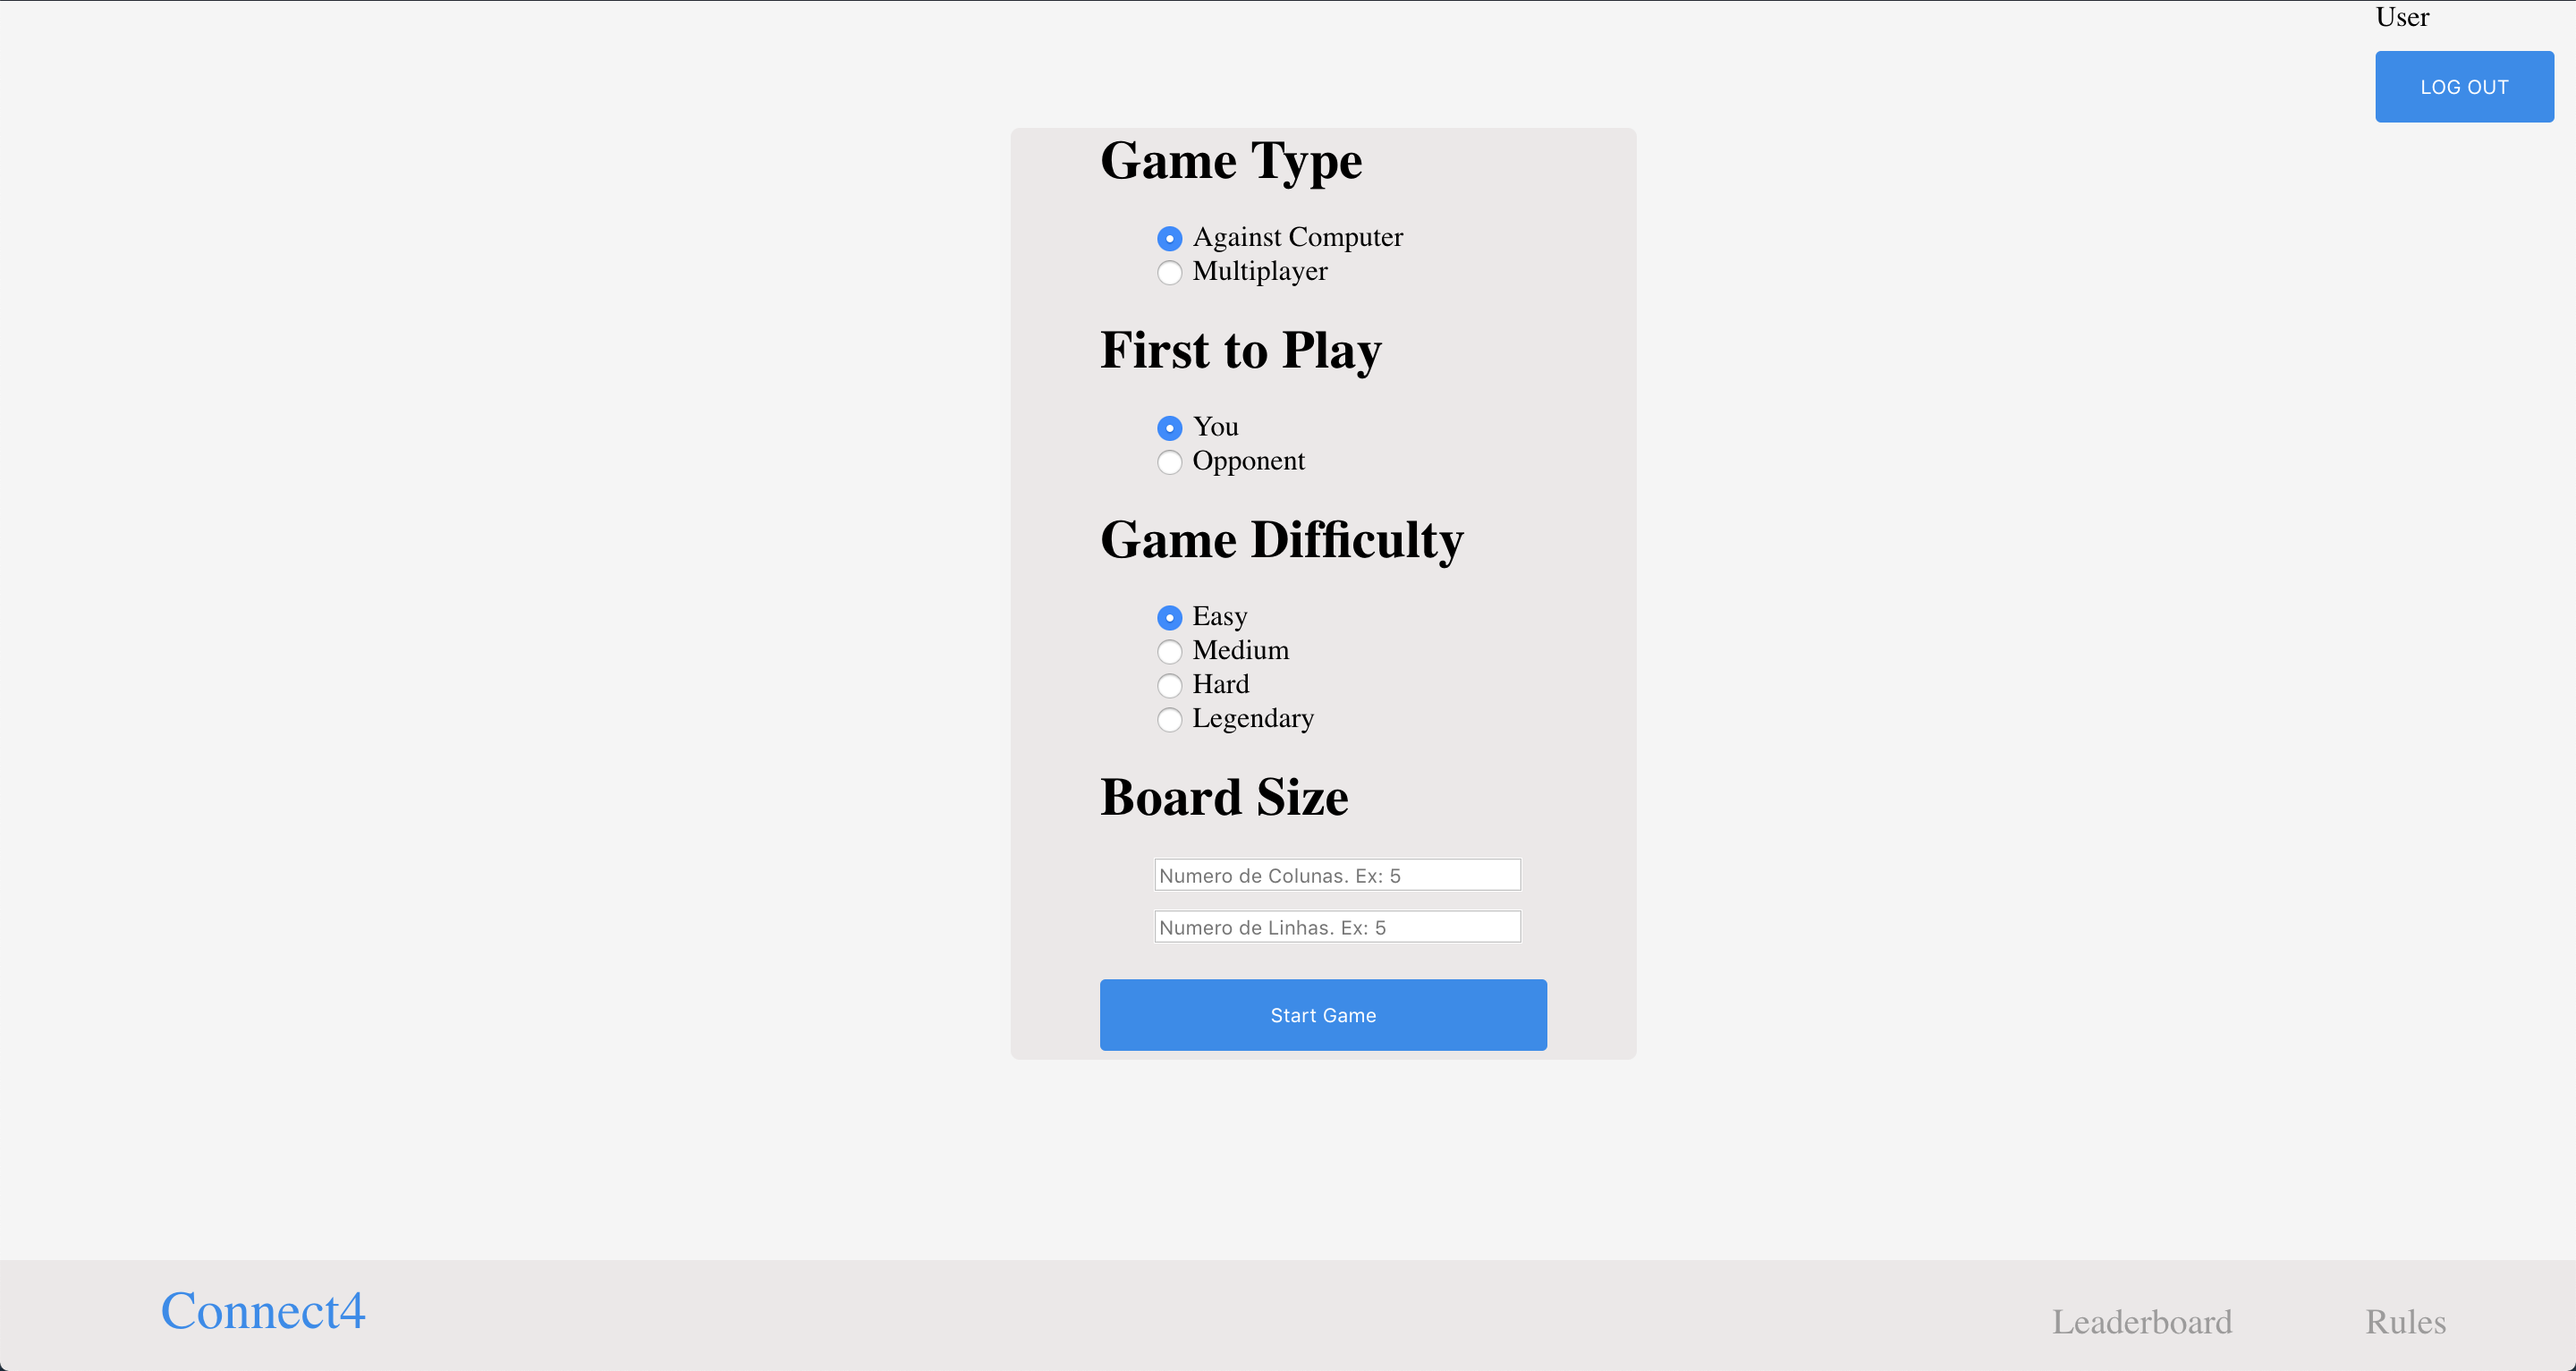
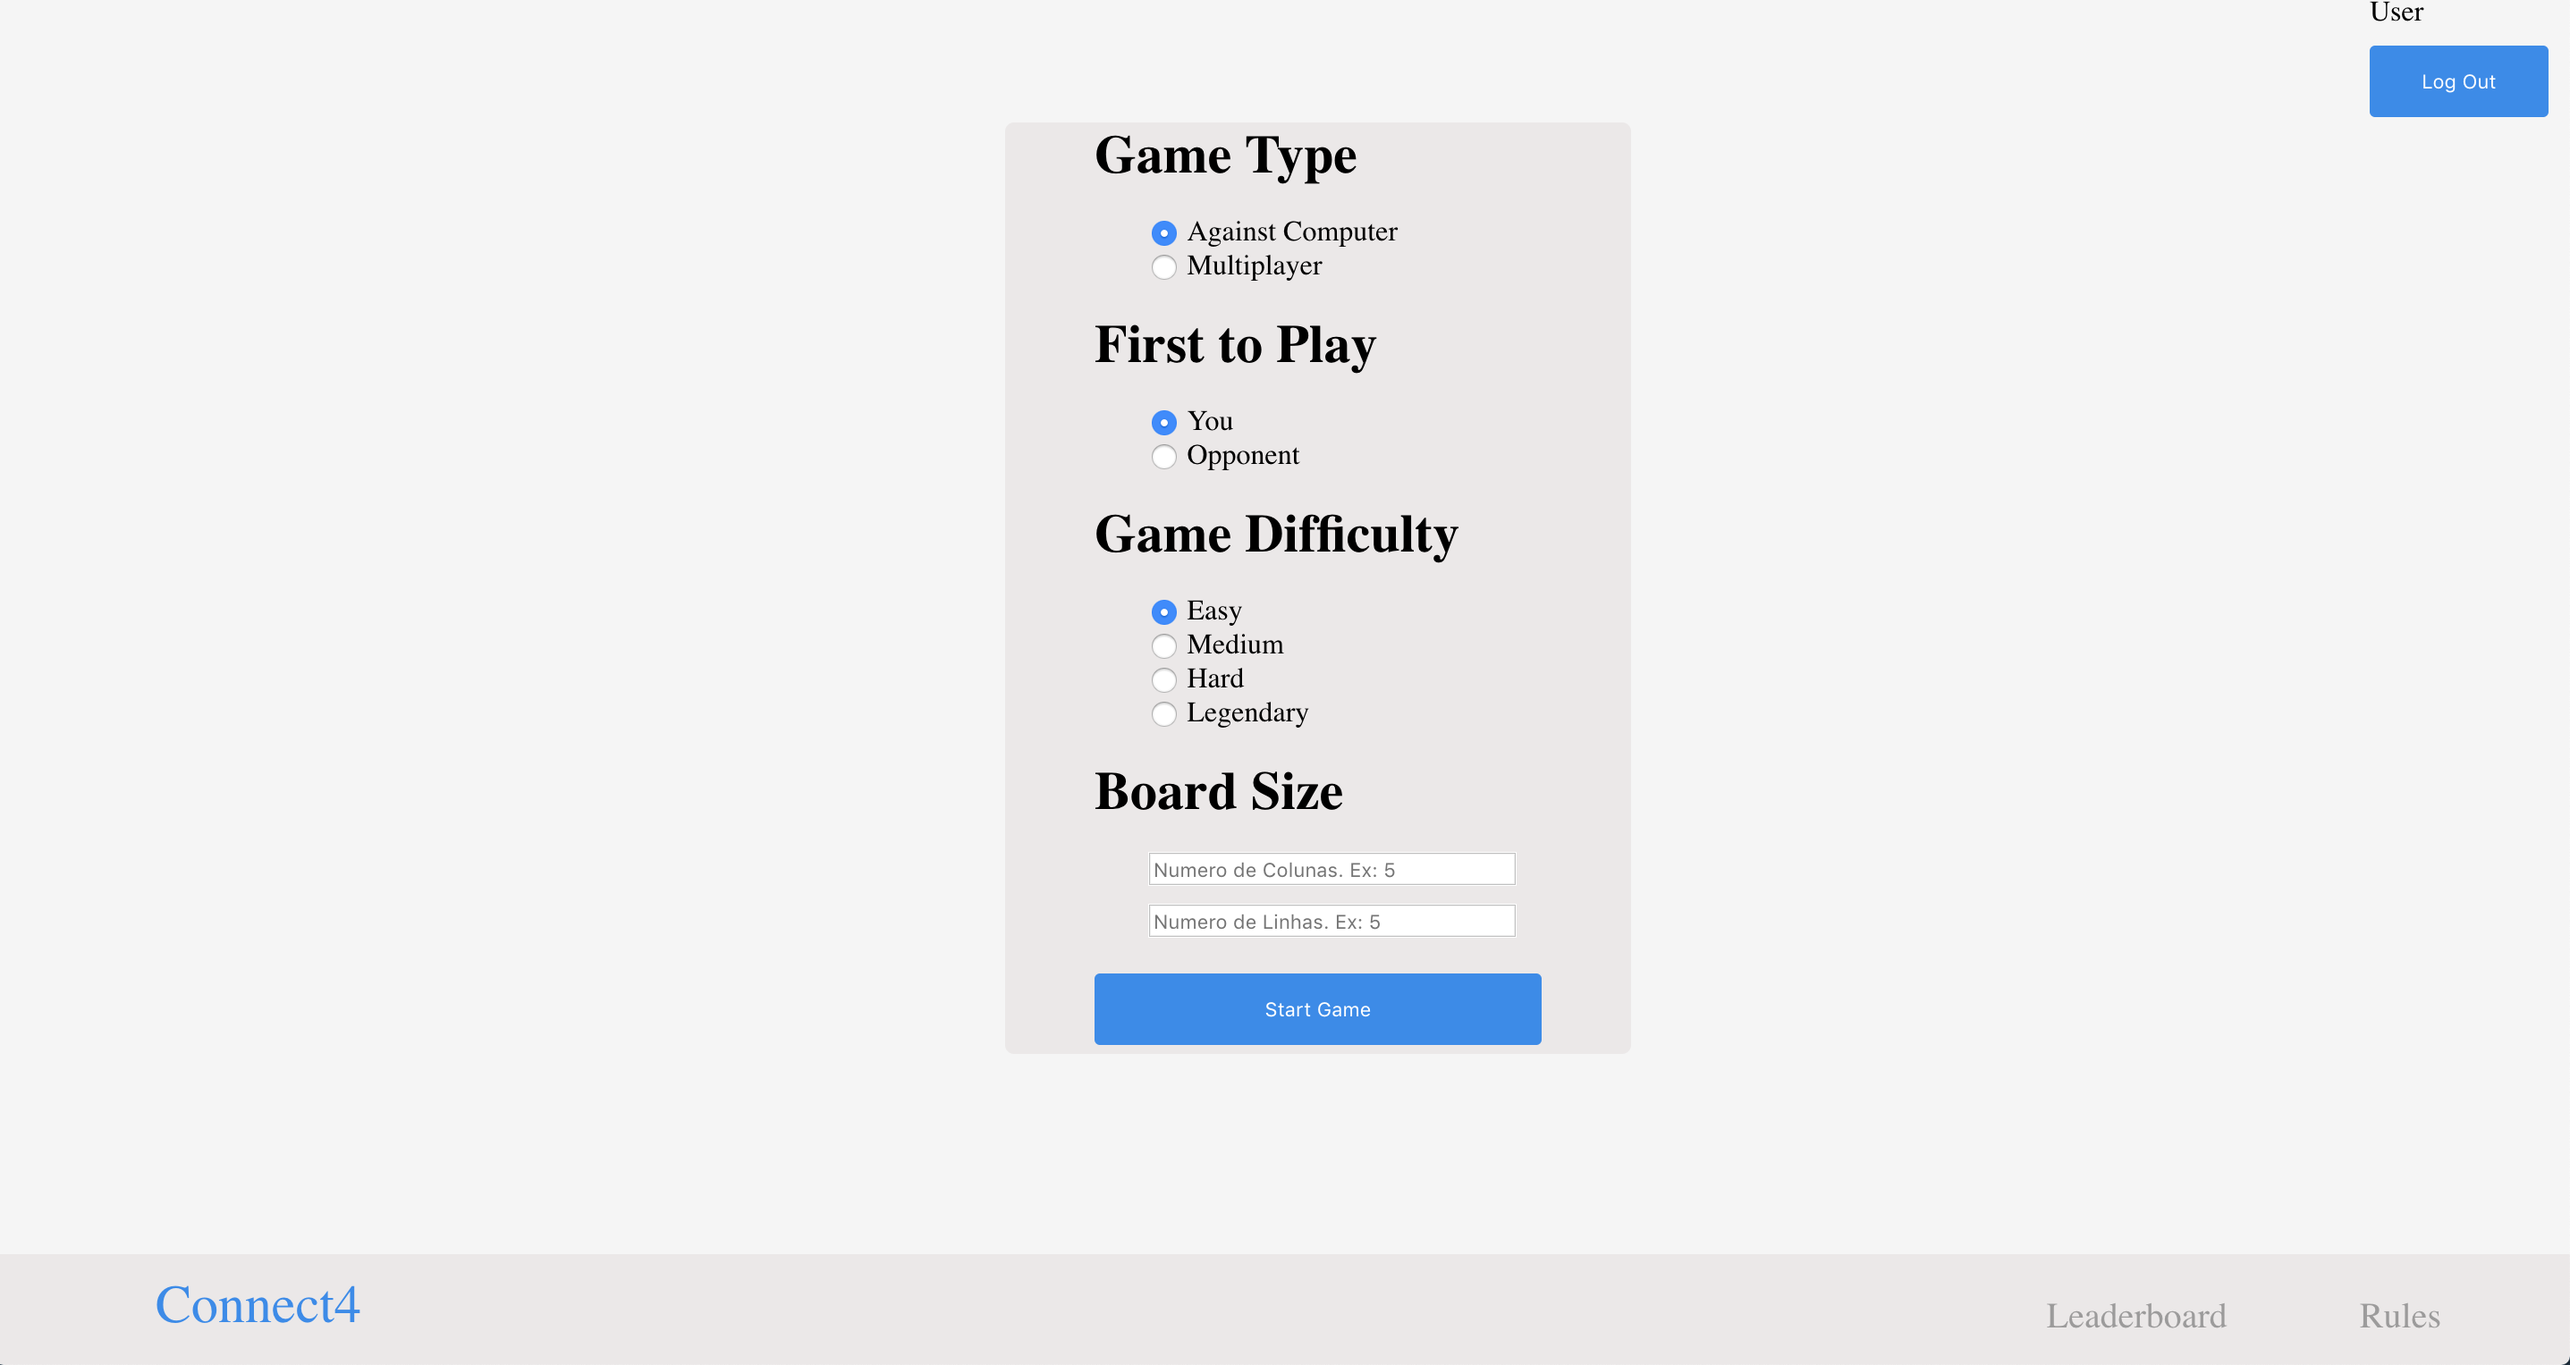
changed rules picture

diff --git a/index.html b/index.html
@@ -25,7 +25,7 @@
 
 		<div id="managerDiv">
 			<div class="username">User</div>
-			<input type='button' value='LOG OUT' onclick='showLoginPage()'/>
+			<input type='button' value='Log Out' onclick='showLoginPage()'/>
 			<input type='button' id='leaveGame' value='Leave Game' onclick='leaveGame()'/>
 		</div>
 	</div>
